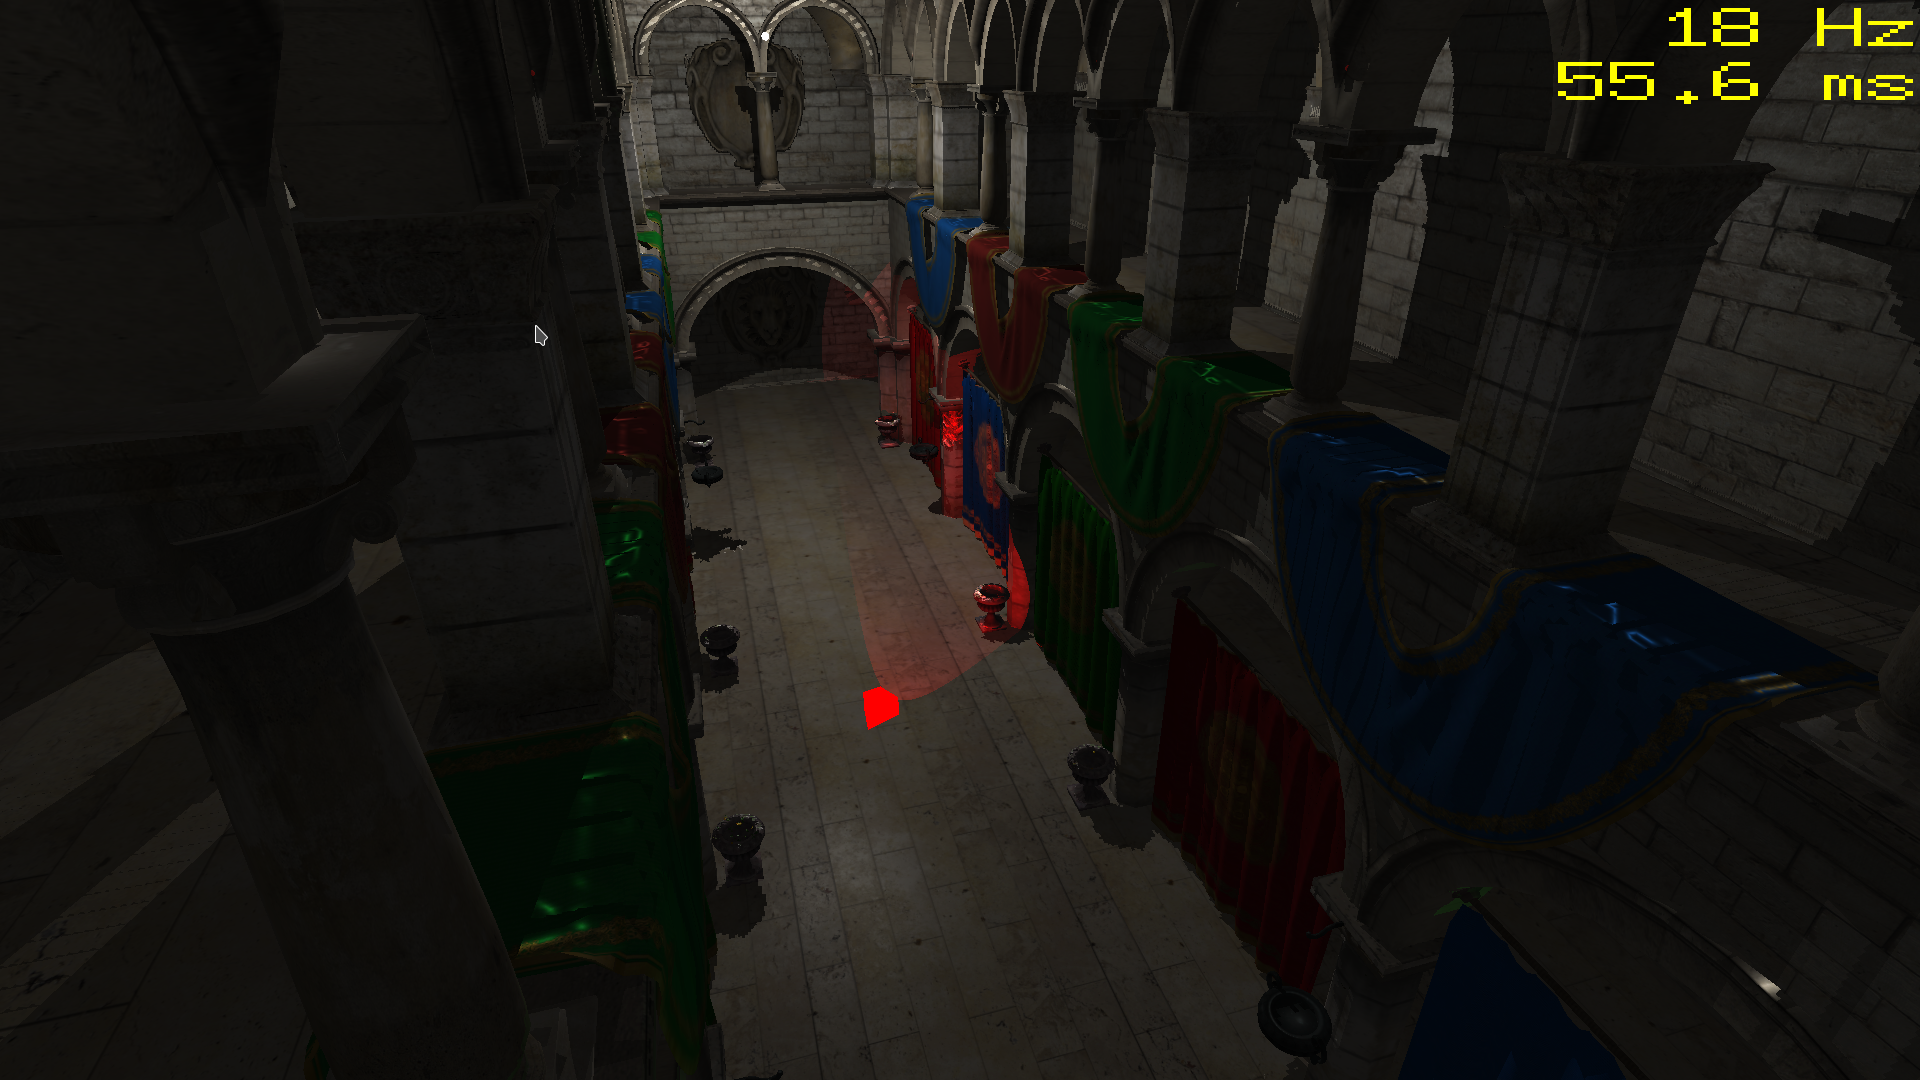
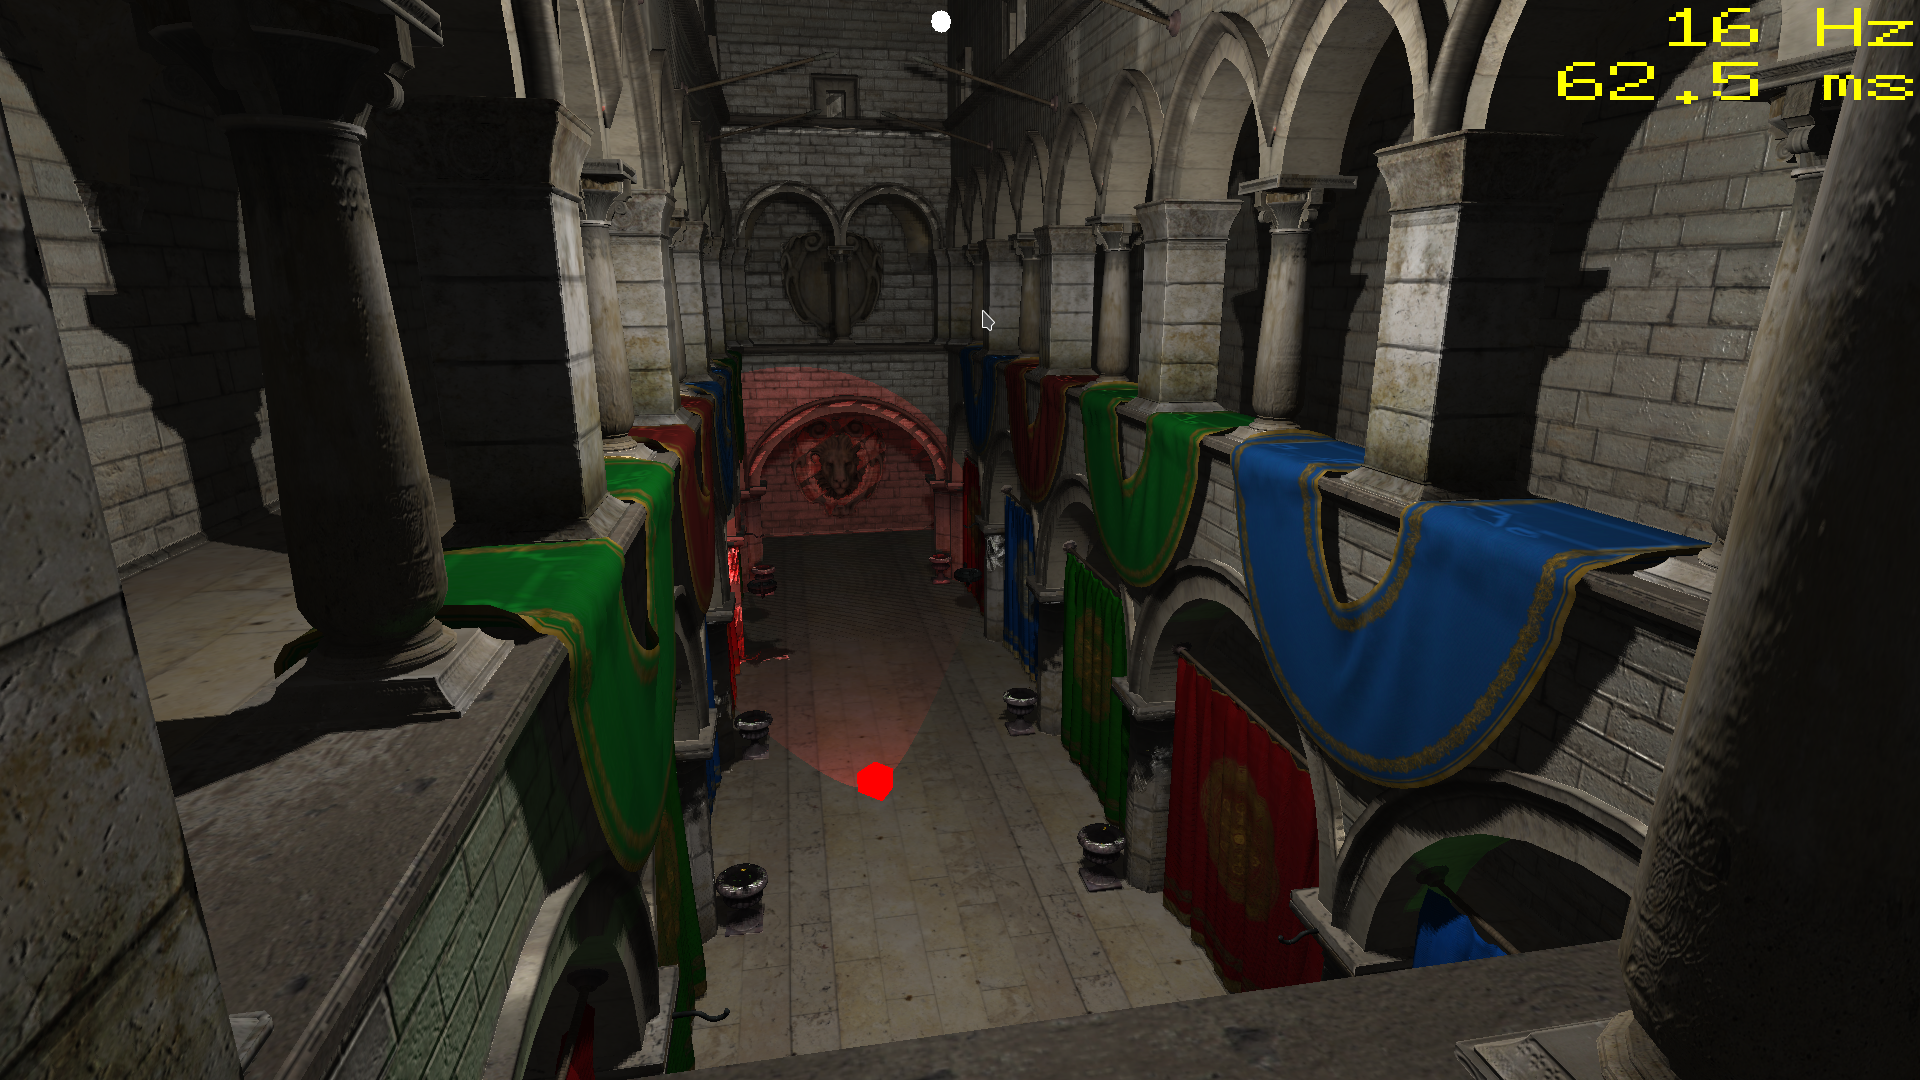
Updated screenshot

diff --git a/sponza_test.go b/sponza_test.go
@@ -15,7 +15,7 @@ func TestMain(m *testing.M) {
 
 	l1 := light.NewPointLight(math.Vec3{1, 1, 1})
 	l1.Place(math.Vec3{+15, 15, 0})
-	l1.Attenuation = 0.01
+	l1.Attenuation = 0.005
 	l1.CastShadows = true
 
 	l2 := light.NewSpotLight(math.Vec3{1, 0, 0})
